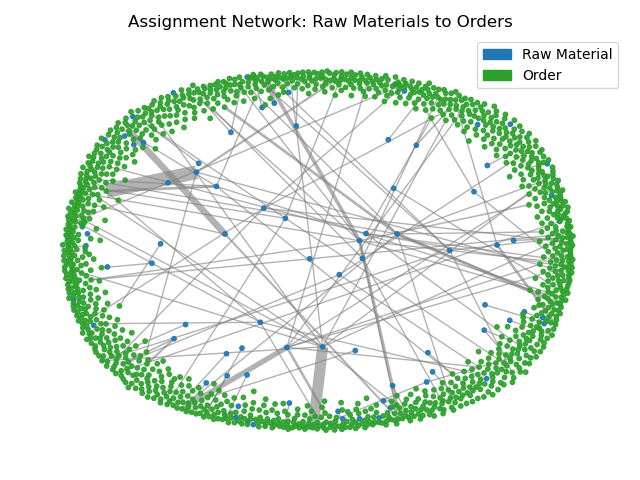
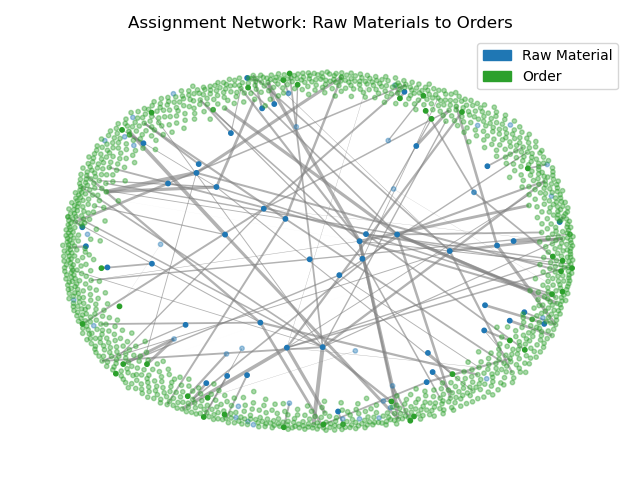
grade group a plotu

Changed region(s): [[0.0938, 0.0312, 0.9688, 0.9062]]

diff --git a/assignmentModel.py b/assignmentModel.py
@@ -3,6 +3,11 @@ from preprocess.preprocessModel import preprocessModel
 import matplotlib.pyplot as plt
 import numpy as np
 import math
+import networkx as nx
+import matplotlib.pyplot as plt
+from collections import defaultdict
+import matplotlib.patches as mpatches
+
 
 def solve_fractional_assignment_with_urgency(setI, setJ, setU, setIJ, Hi, d_ju, partial = True):
     """
@@ -107,7 +112,7 @@ for (i, j, u), value in x_iju.items():
         resultDF.at[row, "Talep Aciliyeti"] = "Acil" if u == 1 else "Normal" if u == 2 else "Tahmin"
         resultDF.at[row, "Tahsis (ton)"] = value
         row += 1
-resultDF.to_excel("results/assignmentModel.xlsx", index=False)
+#resultDF.to_excel("results/assignmentModel.xlsx", index=False)
 
 ozetDF = pd.DataFrame(columns=["Aciliyet", "Talep (ton)", "Tahsis (ton)", "Tahsis Oranı"])
 row = 0
@@ -142,16 +147,13 @@ for i in setI:
     row += 1
 hammaddeKullanımDF.to_excel("results/hammaddeKullanım.xlsx", index=False)    
 
-
-# Aciliyet bilgileri
+# BAR CHART
 urgency_labels = {1: "Urgent Orders", 2: "Normal Orders", 3: "Forecast Orders"}
-urgency_colors = {'Met Demand': '#4CAF50', 'Unmet Demand': '#F44336'}  # Green and Red
+urgency_colors = {'Met Demand': '#4CAF50', 'Unmet Demand': '#F44336'}
 
-# X ekseninde aciliyet seviyeleri
 x = [urgency_labels[u] for u in setU]
 x_indices = np.arange(len(setU))
 
-# Y ekseninde tahsis ve karşılanamayan miktarlar
 assigned_vals = []
 unmet_vals = []
 
@@ -159,42 +161,71 @@ for u in setU:
     total_demand = sum(dju[(j, u)] for j in setJ)
     total_assigned = sum(x_iju[(i, j, u)] for (i, j) in setIJ)
     total_unmet = total_demand - total_assigned
-    if u==3:
+    if u == 3:
         total_unmet = 0
-
     assigned_vals.append(total_assigned)
     unmet_vals.append(total_unmet)
 
-# Grafiği çiz
 plt.figure(figsize=(8, 6))
 plt.bar(x_indices, assigned_vals, color=urgency_colors['Met Demand'], label='Assigned Orders (tons)')
 plt.bar(x_indices, unmet_vals, bottom=assigned_vals, color=urgency_colors['Unmet Demand'], label='Not Assigned Orders (tons)')
-
-# Etiketler ve düzen
 plt.xticks(x_indices, x)
 plt.xlabel('Urgency of Orders')
 plt.ylabel('Total Demand (tons)')
 plt.title('Order Fulfillment by Urgency Level')
 plt.legend()
 plt.tight_layout()
-
-# Kaydet ve göster
-plt.savefig("results/aciliyet_barplot.png")
+plt.savefig("results/aciliyet_barplot.png",
+                dpi=600, 
+                transparent=True, 
+                bbox_inches='tight')
 plt.show()
 
-import networkx as nx
-import matplotlib.pyplot as plt
-from collections import defaultdict
-import matplotlib.patches as mpatches
+# PIE CHART
+combined_labels = []
+combined_sizes = []
+combined_colors = []
 
-# Create graph
+for u in setU:
+    label_base = urgency_labels[u]
+    met = assigned_vals[u-1]
+    unmet = unmet_vals[u-1]
+    
+    if met > 0:
+        combined_labels.append(f"{label_base} – Met")
+        combined_sizes.append(met)
+        combined_colors.append('#4CAF50')  # Green
+    
+    if unmet > 0:
+        combined_labels.append(f"{label_base} – Unmet")
+        combined_sizes.append(unmet)
+        combined_colors.append('#F44336')  # Red
+
+plt.figure(figsize=(7, 7))
+plt.pie(
+    combined_sizes,
+    labels=combined_labels,
+    autopct='%1.1f%%',
+    startangle=140,
+    colors=combined_colors,
+    wedgeprops={'edgecolor': 'white', 'linewidth': 2}
+)
+plt.title('Met vs Unmet Demand by Urgency Level')
+plt.axis('equal')
+plt.tight_layout()
+plt.savefig("results/combined_met_unmet_piechart_bordered.png",
+                dpi=600, 
+                transparent=True, 
+                bbox_inches='tight')
+plt.show()
+
+
+
+# NETWORK GRAPH
 G = nx.DiGraph()
-
-# Node types and colors
 node_colors = {}
 node_labels = {}
 
-# Add nodes with types
 for i in setI:
     node_id = f"RM-{i}"
     G.add_node(node_id)
@@ -207,7 +238,6 @@ for j in setJ:
     node_colors[node_id] = '#2ca02c'  # green for order
     node_labels[node_id] = dictTanimJ[j]
 
-# Add edges and compute assignment sum
 assignment_sum = defaultdict(float)
 for (i, j, u), val in x_iju.items():
     if val > 1e-6:
@@ -215,11 +245,8 @@ for (i, j, u), val in x_iju.items():
 
 for (i, j), val in assignment_sum.items():
     G.add_edge(f"RM-{i}", f"ORD-{j}", weight=val)
-
-# Graph layout
 pos = nx.spring_layout(G, k=0.2, iterations=50, seed=42)
 
-# Compute node opacity
 node_opacity = {}
 for node in G.nodes():
     if node.startswith("ORD-"):
@@ -236,33 +263,28 @@ for node in G.nodes():
         usage_ratio = used_qty / initial_qty if initial_qty > 0 else 0
         node_opacity[node] = min(max(usage_ratio, 0.4), 1.0)
 
-
-# Draw nodes
 node_color_list = [node_colors[n] for n in G.nodes()]
 node_alpha_list = [node_opacity[n] for n in G.nodes()]
 nx.draw_networkx_nodes(G, pos, node_size=10, node_color=node_color_list, alpha=node_alpha_list)
 
-# Draw edges with width proportional to tons assigned
 edges = G.edges(data=True)
 
 edge_widths = [math.log10(d['weight'] + 1) for (_, _, d) in edges]
 nx.draw_networkx_edges(G, pos, edgelist=edges, width=edge_widths, edge_color='gray', alpha=0.6, arrows=False)
 
-# Optional: draw node labels
-#nx.draw_networkx_labels(G, pos, labels=node_labels, font_size=7)
-
-# Legend
 legend_handles = [
     mpatches.Patch(color='#1f77b4', label='Raw Material'),
     mpatches.Patch(color='#2ca02c', label='Order'),
 ]
 plt.legend(handles=legend_handles, loc='best')
 
-# Finalize
 plt.title("Assignment Network: Raw Materials to Orders")
 plt.axis('off')
 plt.tight_layout()
-plt.savefig("results/assignment_network_force_layout.png")
+plt.savefig("results/assignment_network_force_layout.png",
+                dpi=600, 
+                transparent=True, 
+                bbox_inches='tight')
 plt.show()
 
 

diff --git a/forecast_model/sarimax.py b/forecast_model/sarimax.py
@@ -354,7 +354,8 @@ for grade in grade_list:
     ax[1].set_title(f"{grade} - PACF (Sipariş Mik.)")
 
     plt.tight_layout()
-    plt.show()
+    #plt.show()
+
     
     # 4. Tahmin (örnek: 7 ay ileri)
     forecast = results.get_forecast(steps=8)
@@ -554,7 +555,7 @@ for grade in grade_list:
     ax[1].set_title(f"{grade} - PACF (Sipariş Mik.)")
 
     plt.tight_layout()
-    plt.show()
+    #plt.show()
     
     # 4. Tahmin (örnek: 7 ay ileri)
     forecast = results.get_forecast(steps=3)
@@ -744,7 +745,7 @@ for month in target_months:
     plt.xticks(rotation=45)
     plt.legend(["Forecasted", "Actual"])
     plt.tight_layout()
-    plt.show()
+    #plt.show()
 
 
 
@@ -759,6 +760,8 @@ for spec_id in selected_spec_ids:
     actual_series = df[df['SpecGroupId'] == spec_id][['Month', 'Sipariş Mik. (TON)']].copy()
     actual_series = actual_series.groupby('Month').sum().sort_index()
     actual_series.rename(columns={'Sipariş Mik. (TON)': 'Actual'}, inplace=True)
+    #filter between 2022-01 and 2025-02
+    actual_series = actual_series.loc['2022-01':'2025-02']
 
     # 🔹 Tahmin verileri (disaggregated)
     forecast_series = disaggregated_df[disaggregated_df['SpecGroupId'] == spec_id][['Month', 'Forecast_TON']].copy()
@@ -775,14 +778,46 @@ for spec_id in selected_spec_ids:
 
     plt.plot(merged.index, merged['Actual'], label='Actual', marker='o', color='grey')
     plt.plot(merged.index, merged['Forecast'], label='Forecast', linestyle='--', marker='x', color='red')
-    plt.title(f"SpecGroupId {spec_id} ({dictTanimJ[int(spec_id)]})– Forecasted vs Actual Orders")
+    plt.title(f"SpecGroupId {spec_id} {dictTanimJ[int(spec_id)]}– Forecasted vs Actual Orders")
     plt.xlabel("Month")
     plt.ylabel("Ordered Amount (Tons)")
     plt.legend()
     plt.grid(True)
     plt.tight_layout()
-    plt.show()
+    #plt.show()
+    plt.savefig(f"results/spec_{spec_id}_forecast_vs_actual.png", 
+                dpi=600, 
+                transparent=True, 
+                bbox_inches='tight')
 
+# GradeGroup "A" için geçmiş (gerçek) veriler
+actual_a = df[df['GradeGroup'] == 'A'].groupby('Month')['Sipariş Mik. (TON)'].sum().sort_index()
+actual_a.name = 'Actual'
+#filter between 2022-01 and 2025-02
+actual_a = actual_a.loc['2022-01':'2025-02']
+
+# GradeGroup "A" için tahmin (disaggregated) veriler
+forecast_a = disaggregated_df[disaggregated_df['GradeGroup'] == 'A'].groupby('Month')['Forecast_TON'].sum().sort_index()
+forecast_a.name = 'Forecast'
+
+# Verileri birleştir
+merged_a = pd.concat([actual_a, forecast_a], axis=1)
+
+# Grafik çiz
+plt.figure(figsize=(12, 5))
+plt.plot(merged_a.index, merged_a['Actual'], label='Actual', marker='o', color='grey')
+plt.plot(merged_a.index, merged_a['Forecast'], label='Forecast', linestyle='--', marker='x', color='red')
+plt.title("GradeGroup 'A' (DX51D+Z, DX51DT+Z, S220GD+Z, S250GD+Z, S280GD+Z) – Forecasted vs Actual Orders (Monthly Total)")
+plt.xlabel("Month")
+plt.ylabel("Ordered Amount (Tons)")
+plt.grid(True)
+plt.legend()
+plt.tight_layout()
+plt.savefig("results/grade_a_forecast_vs_actual.png",
+                dpi=600, 
+                transparent=True, 
+                bbox_inches='tight')
+##plt.show()
     
 import pandas as pd
 import numpy as np
